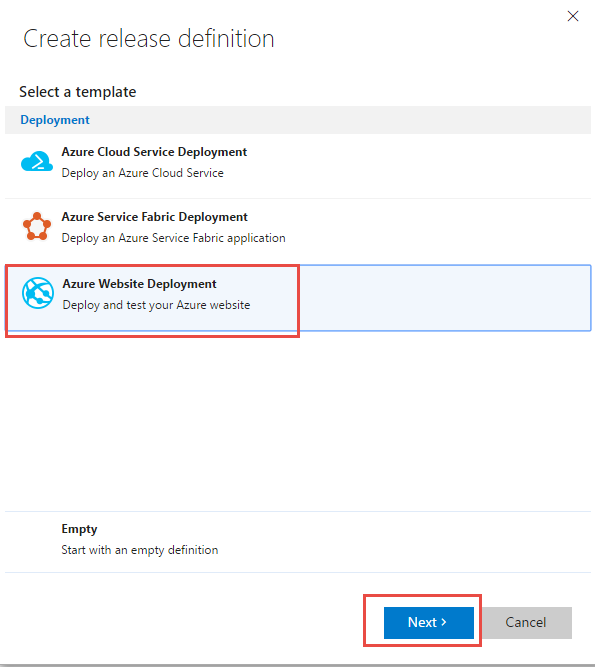
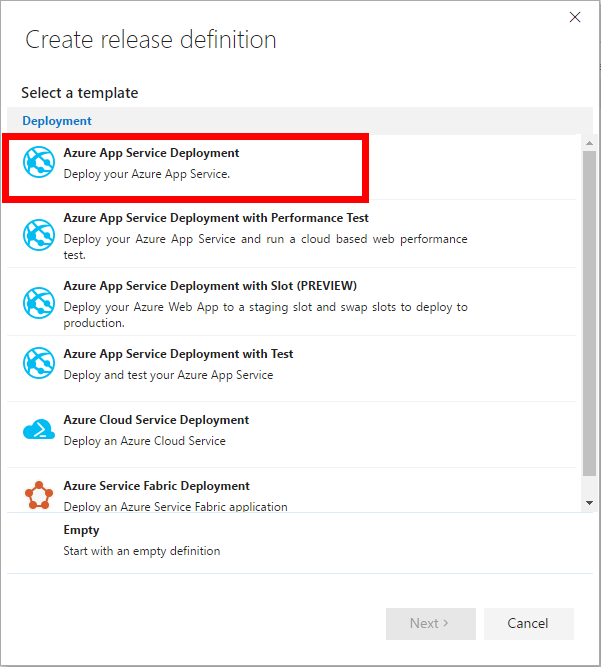
Updated VSTS UI for App Service Deploy
Closes #45

diff --git a/HOL/node/04-devops-ci/README.md b/HOL/node/04-devops-ci/README.md
@@ -255,7 +255,7 @@ In the ARM Template that was originally deployed in the lab setup, a web app was
 
     ![image](./media/image-048.png)
 
-1. For the newly renamed Dev environment, click **Add tasks** then from the **Deploy** tab on the left navigation choose **AzureRM App Service Deployment**.
+1. For the newly renamed Dev environment, click **Add tasks** then from the **Deploy** tab on the left navigation choose **Azure App Service Deploy**.
 
     ![image](./media/image-036.png)
 

diff --git a/HOL/java/04-devops-ci/README.md b/HOL/java/04-devops-ci/README.md
@@ -315,7 +315,7 @@ to **Cloud Test Realease** and change the environment name to **Test Environment
 
     ![image](./media/image-038.png)
 
-    In the task catalog, find **AzureRM App Service Deployment** and click **Add**, and then **Close**
+    In the task catalog, find **Azure App Service Deploy** and click **Add**, and then **Close**
 
     ![image](./media/image-039.png)
 

diff --git a/HOL/dotnet/04-devops-ci/README.md b/HOL/dotnet/04-devops-ci/README.md
@@ -228,7 +228,7 @@ In the ARM Template that was originally deployed, a web app was created as a dev
 
     ![image](./media/image-038.png)
 
-1. Select ***Azure Website Deployment*** and click next.
+1. Select ***Azure App Service Deployment*** and click Next.
 
     ![image](./media/image-039.png)
 
